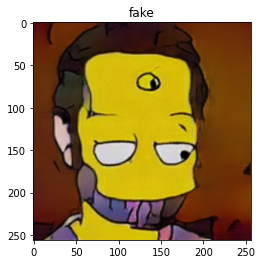
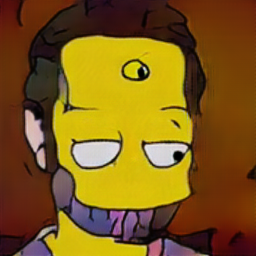
update faces

diff --git a/_posts/2020-08-30-Cyclegan-Simpsonify.md b/_posts/2020-08-30-Cyclegan-Simpsonify.md
@@ -3,10 +3,19 @@ layout: post
 title: Simpsonize Yourself using CycleGAN
 ---
 
-<table><tr><td><img src='https://drive.google.com/uc?id=1jmpktn6Jj9ia_bKpkNzU3A-vtEjRrcpc'></td><td><img src='https://drive.google.com/uc?id=1_t_Gdq8FxdhkF7QVhP_RxCDvO9a-CLjB'></td></tr></table>
+![alt text](/images/cyclegan_simpsonify/real_face_8244_fake.png)
+![alt text](/images/cyclegan_simpsonify/real_face_8244_real.png)
 
 
-<table><tr><td><img src='https://drive.google.com/uc?id=1pTuzTcVpPWZnvEtmd4FOg6vdtQ0zIWQh'></td><td><img src='https://drive.google.com/uc?id=1SV5vLt-KrXRmAesBagivP6OlzsFhbsyO'></td></tr></table>
+
+![alt text](/images/cyclegan_simpsonify/real_face_9038_fake.png)
+![alt text](/images/cyclegan_simpsonify/real_face_9038_real.png)
+
+
+<!-- <table><tr><td><img src='https://drive.google.com/uc?id=1jmpktn6Jj9ia_bKpkNzU3A-vtEjRrcpc'></td><td><img src='https://drive.google.com/uc?id=1_t_Gdq8FxdhkF7QVhP_RxCDvO9a-CLjB'></td></tr></table>
+
+
+<table><tr><td><img src='https://drive.google.com/uc?id=1pTuzTcVpPWZnvEtmd4FOg6vdtQ0zIWQh'></td><td><img src='https://drive.google.com/uc?id=1SV5vLt-KrXRmAesBagivP6OlzsFhbsyO'></td></tr></table> -->
 
 
 [Cyclegan](https://arxiv.org/abs/1703.10593) is a framework that is capable of image to image translatation. It's been applied in some really interesting cases. Such as converting [horses to zebras](https://camo.githubusercontent.com/69cbc0371777fba5d251a564e2f8a8f38d1bf43f/68747470733a2f2f6a756e79616e7a2e6769746875622e696f2f4379636c6547414e2f696d616765732f7465617365725f686967685f7265732e6a7067) (and back again) and photos of the winter to photos of the summer. 
